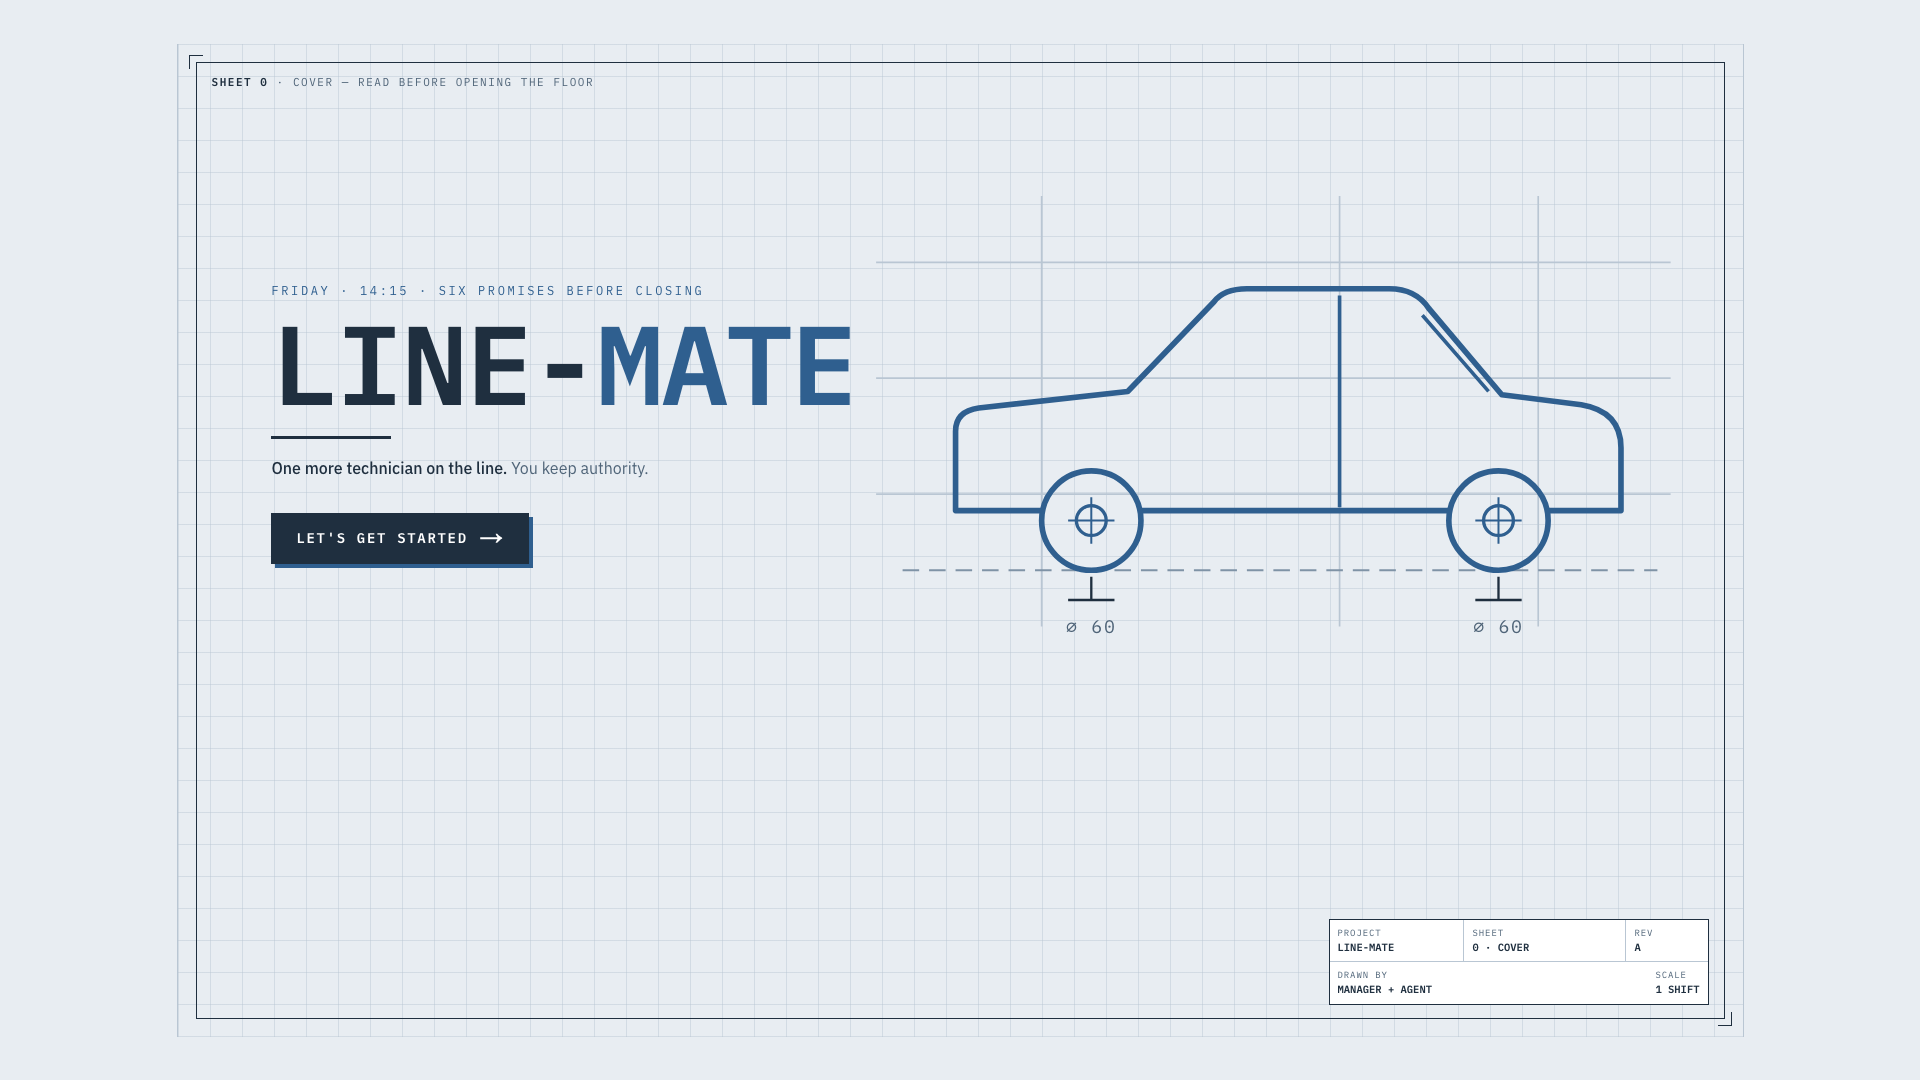
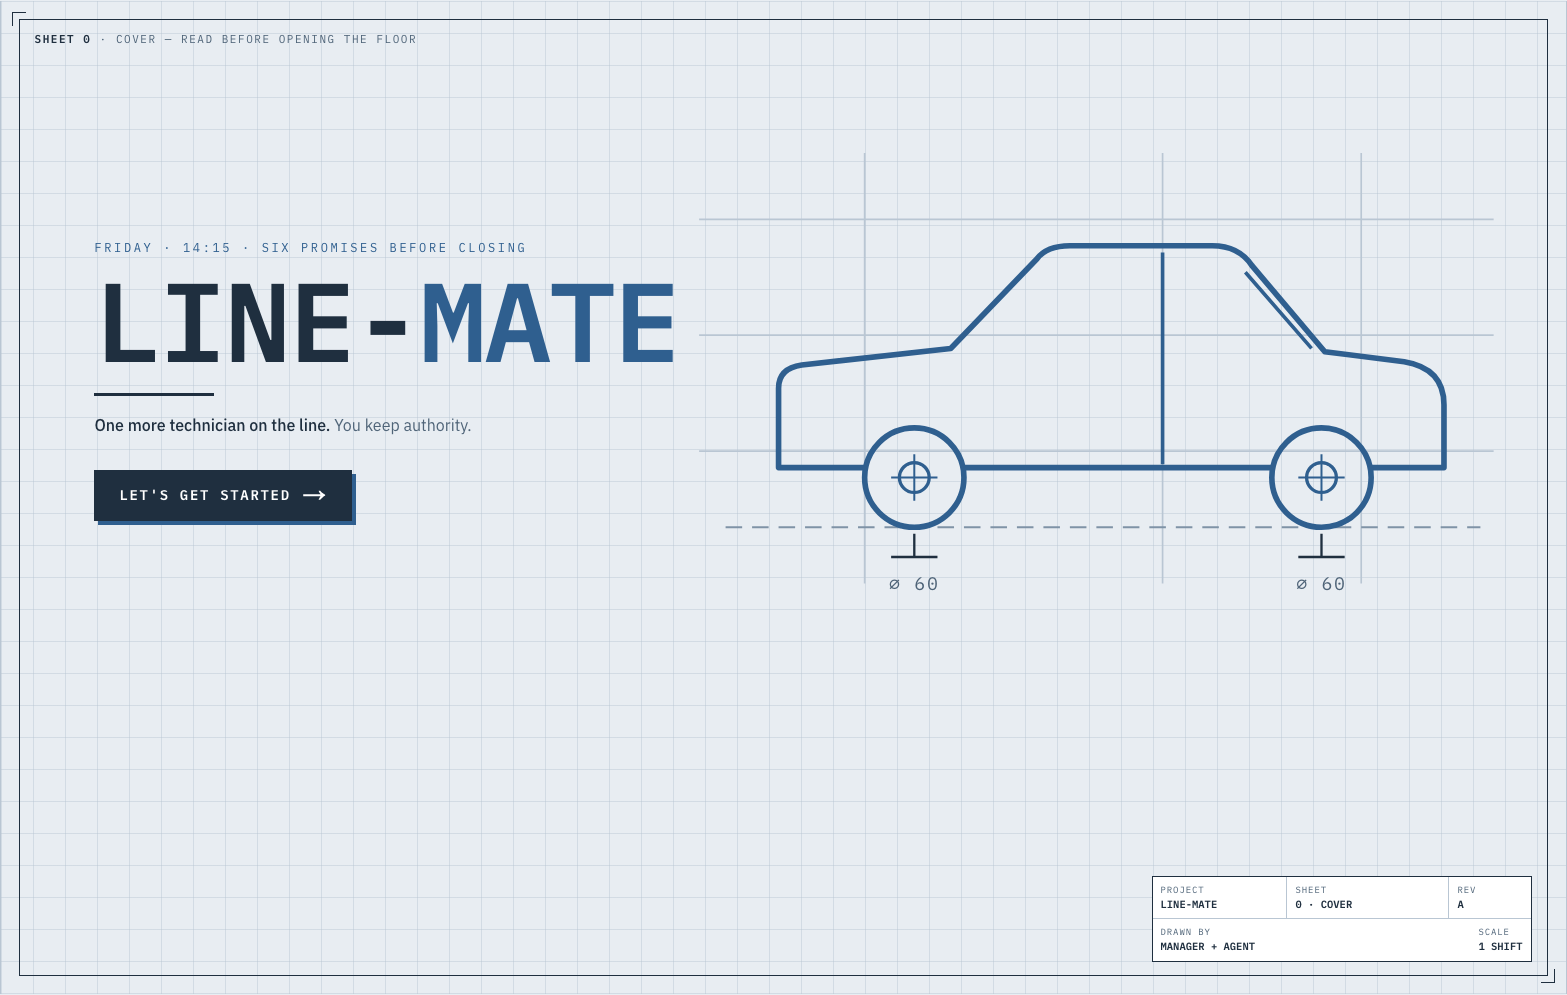
docs: README as the submission briefing — cover, pitch, tools, format, structure
Claude-Session: https://claude.ai/code/session_01657n9Tg9nrGUL1uyyJyH57

diff --git a/README.md b/README.md
@@ -1,63 +1,41 @@
-# Line-Mate
+<p align="center">
+  <a href="https://line-mate.vercel.app"><img src="public/cover.png" alt="Line-Mate — SHEET 0, the cover of the drawing set" width="100%"></a>
+</p>
 
-[![Line-Mate — SHEET 0, the cover of the drawing set](public/cover.png)](https://line-mate.vercel.app)
+**Line-Mate is one more technician on the line: a digital twin of a repair shop in a browser tab, where an agent works the floor through WebMCP and the manager keeps authority.**
 
-**One more technician on the line.** Line-Mate is a WebMCP-native shop floor where a human
-manager and a browser agent run the same operation, live — the agent explores real recovery
-plans, the manager keeps authority. Built for the 2026 WebMCP Challenge.
+🚗 **Web app:** https://line-mate.vercel.app
+🎬 **Demo video:** https://www.youtube.com/watch?v=SHw8O6rTDx8
 
-> 🚗 **Live app:** https://line-mate.vercel.app
-> 🎬 **Demo video (2½ min):** https://www.youtube.com/watch?v=SHw8O6rTDx8
-> 📦 **Source:** https://github.com/MarioAderman/line-mate · MIT
+## What Line-Mate is
 
-## What this is
+Line-Mate is a live model of a mid-market auto repair shop — three bays, a diagnostics station, three technicians, twelve cars and six promises by COB. By simulating the shop's floor, it helps the manager make a decision upon real-data considering multiple scenarios and understanding the trade-off between one and another.
 
-A mid-market auto repair shop, Friday 14:15, six customer promises before closing. A water-pump
-delay blocks Bay 3 and puts two promises at risk. The manager and an external agent — ChatGPT /
-Codex through the experimental [WebMCP](https://github.com/webmachinelearning/webmcp) browser API —
-recover the schedule **together, on the same live world**:
+What makes it WebMCP-native rather than "AI added to a simulator": there is one world and one command boundary. A click, a drag and an agent tool call all run the same command, stamped with its actor (`human`, `agent`, `simulation`), so every change on the board is attributed, the baseline is protected behind scenario branches, and the agent's context arrives through the tools themselves — no system prompt, no scraped DOM, no second backend.
 
-1. **Calm** — the shift board shows 6/6 promises on plan.
-2. **Escalation** — the part delay lands: Bay 3 blocked, 4/6, two cars in red.
-3. **Exploration** — the agent searches 141 alternative schedules across thousands of seeded
-   simulation runs; the screen animates the search as it happens.
-4. **Proposal** — the winning plan appears as draggable cards. The manager can retarget any car;
-   the agent can move the same dropdowns through tools. Every change carries its author.
-5. **Resolved** — apply & notify: 6/6 recovered, shift note logged with its channels.
+## WebMCP tools
 
-This is not "AI added to a simulator". The thesis is **shared operation**: one world, one command
-boundary, visible attribution (`human` / `agent` / `simulation`), a protected baseline, and
-scenario branches so the agent can experiment without touching the plan of record.
-
-## Why it's honest
-
-- **Deterministic engine.** Pure TypeScript discrete-event simulation in the browser. Same seed,
-  same numbers — every run, every machine.
-- **Measured confidence.** The exploration scores every candidate across seeded replications and
-  reports how often a plan holds. No hardcoded percentages anywhere.
-- **Nothing is applied silently.** The proposal is a draft on screen until the manager applies it.
-  Notifications are recorded in the shop log; the page performs no external delivery.
-
-## WebMCP surface
-
-The page registers **13 tools** via `document.modelContext` (Imperative API, feature-detected):
-
-| Kind | Tools |
+| Tool | What it is for |
 |---|---|
-| Read | `inspect_system` (includes the agent briefing and the on-screen draft), `inspect_resource`, `inspect_work_item`, `get_simulation_results`, `compare_scenarios` |
-| Mutation | `create_scenario`, `update_resource`, `update_work_item`, `route_work_item`, `apply_plan`, `post_shift_note` |
-| Action | `run_simulation`, `explore_schedules` |
+| `inspect_system` | The whole picture: shift clock, constraints, bays and technicians, jobs with their promises, latest KPIs, recent changes. Carries the agent's briefing and, during a proposal, the on-screen draft with per-change authorship. Use it first. |
+| `inspect_resource` | One bay or station: status and blocking reason, routed jobs, utilization, queue, who can work there. |
+| `inspect_work_item` | One vehicle's job: promise, priority, steps and the skills they need, current route, feasibility versus the promise. |
+| `get_simulation_results` | Structured results of a scenario's last run: promises met, completions, revenue and cost, utilization, late and unfinished jobs, bottleneck. |
+| `compare_scenarios` | Aligned KPIs for 2–4 scenarios with deltas against the first and a one-line verdict. |
+| `create_scenario` | Clone a scenario into a named experiment and make it active — the move that keeps the baseline intact. |
+| `update_resource` | Validated partial update of a bay or station (status, blocking, capacity, availability, cost). |
+| `update_work_item` | Change a job's priority. Promises, steps and revenue are the customer's facts and cannot be edited. |
+| `route_work_item` | Send a job to a bay or station at a queue position, or release its pin. While a proposal is on screen it edits the visible draft instead — attributed to the agent, nothing applied until the manager says so. |
+| `apply_plan` | Apply a whole plan — the one `explore_schedules` returned or the manager's edited version — as one attributed change. |
+| `post_shift_note` | Record the shift note in the shop log with its channels (slack, email, sms). No external delivery, no network request. |
+| `run_simulation` | Run the deterministic shift simulation for a scenario and persist the result. Same input, same numbers. |
+| `explore_schedules` | Search a bounded set of alternative schedules and score each across seeded replications — returns the best plan and up to eight runners-up with measured keep-rates. The screen animates the real search. |
 
-Human-only demo controls (`inject_event`, `activate_scenario`, `reset_demo`) are **not** exposed
-to agents. Tool responses are structured, validated with zod, and bounded. During the proposal
-beat, an agent `route_work_item` on the draft's scenario edits the visible draft — dropdown moves,
-`agent change` badge — and the world stays untouched until the manager applies.
+Three commands are deliberately **not** exposed to agents — `inject_event` (the part delay), `activate_scenario` (which scenario the screen shows) and `reset_demo` — they are the manager's controls (`Shift+E`, the Board/Floor switch, `Shift+0`).
 
-### Registration (the imperative API, exactly)
+### The format every tool obeys
 
-Every tool is registered through the WebMCP imperative API on `document.modelContext`, each with
-`name`, `description`, `inputSchema` (JSON Schema generated from the zod command schema), and an
-async `execute` — plus `title` and `annotations.readOnlyHint`:
+Each tool is a command from the app's single registry, registered through the WebMCP imperative API with `name`, `description`, `inputSchema` (JSON Schema generated from the command's zod schema) and an async `execute`, plus `title` and `annotations.readOnlyHint`:
 
 ```ts
 // src/webmcp/adapter.ts — feature-detected, torn down with an AbortController
@@ -67,76 +45,77 @@ await document.modelContext.registerTool(
 );
 ```
 
-The deprecated `navigator.modelContext` spelling is deliberately not used. When no WebMCP host is
-present the app degrades to a no-op and the header pill reads `Agent bridge unavailable`; with a
-host it reads **`Agent linked · 13 tools`**.
+A tool descriptor as the agent sees it:
 
-### Tested with real agents
-
-Four recorded live sessions drove these tools from **Codex realtime voice threads in the ChatGPT
-desktop app's in-app browser** (WebMCP on by default there). In the recorded transcripts the
-agent, unprompted about our internals: inspected the escalated shop, ran the seeded exploration
-(the winning plan kept **6/6 promises in 100% of measured runs** across independent seeds),
-branched scenarios to protect the baseline, applied the plan, verified it by simulation, edited
-the on-screen proposal draft through `route_work_item`, and posted the shift note — every change
-attributed `agent` in the visible history.
-
-## Try it
-
-```bash
-npm install
-npm run dev        # http://localhost:3000
+```json
+{
+  "name": "route_work_item",
+  "title": "Route work item",
+  "description": "Send a job to a specific bay or station, optionally at a queue position (1 = next) …",
+  "inputSchema": {
+    "type": "object",
+    "properties": {
+      "workItemId": { "type": "string" },
+      "resourceId": { "type": ["string", "null"] },
+      "position": { "type": ["integer", "null"], "minimum": 1, "maximum": 20 },
+      "scenarioId": { "type": "string" }
+    },
+    "required": ["workItemId", "resourceId"]
+  },
+  "annotations": { "readOnlyHint": false }
+}
 ```
 
-- **Views:** `Board | Floor` switch in the header (shift board / isometric shop).
-- **Demo story:** `Shift+E` part delay · `Shift+R` explore & propose · `Shift+A` apply & notify ·
-  `Shift+0` reset.
-- **With an agent:** open the page in a WebMCP-capable surface — ChatGPT desktop app's built-in
-  browser / Codex, or Chrome with `chrome://flags/#enable-webmcp-testing` (DevTools gains a WebMCP
-  panel to inspect and invoke the tools directly). The header pill shows `Agent linked · 13 tools`
-  when the bridge is up.
+And a real call from a recorded live session — the agent moving the black wagon inside the manager's proposal:
 
-### Judge test script (2 minutes, live URL)
+```jsonc
+// call
+route_work_item({ "scenarioId": "SCN-BASELINE", "workItemId": "veh-05", "resourceId": "bay-2" })
+// result
+{
+  "draftEdited": true,
+  "workItemId": "veh-05",
+  "route": { "resourceId": "bay-2", "position": 1 },
+  "summary": "Updated the proposed-plan draft on the manager's screen. Nothing is applied to the world until the manager presses Apply & notify team."
+}
+```
 
-1. Open **https://line-mate.vercel.app** in the ChatGPT desktop app's in-app browser, or in
-   Chrome 149+ with `chrome://flags/#enable-webmcp-testing` enabled (then restart Chrome).
-2. Dismiss the cover (**Let's get started** or `Enter`) and confirm the header pill says
-   **`Agent linked · 13 tools`**.
-3. Press **`Shift+E`** — the part delay lands: Bay 3 blocked, 4/6 promises at risk.
-4. Ask the agent: *"Inspect the shop and recover today's promises — explore schedules, branch a
-   scenario, apply the best plan, and verify it."* Watch the search animate on screen (~10 s),
-   the proposal land with attributed cards, and the recovery reach **6/6**.
-5. No agent handy? Chrome DevTools' **WebMCP panel** lists all 13 tools and can invoke them
-   directly — `inspect_system` first. No login, no credentials, nothing to install.
+Every mutation returns a `changeId`, the actor and a before/after summary; responses are JSON-safe and bounded (the exploration's animation trace, for instance, is stripped unless the caller asks for it).
 
-## Architecture
+## Project structure
 
 ```text
-human UI ─┐
-          ├─> application commands ─> canonical Zustand store ─> simulation engine
-WebMCP ───┘                                      │
-                                                 └─> visible change history
+line-mate/
+├─ src/
+│  ├─ app/            Next.js App Router: layout (metadata, fonts), page, tab icon, cover image
+│  ├─ domain/         Canonical serializable types, zod schemas, fixtures, disruptions, demo beats
+│  ├─ simulation/     Deterministic discrete-event engine + seeded schedule exploration (no React)
+│  ├─ commands/       The one command boundary: registry, validation, actor attribution, agent briefing
+│  ├─ store/          The single live world (Zustand) + story/view state, shift clock, draft
+│  ├─ webmcp/         document.modelContext adapter: feature detection, tool descriptors, cleanup
+│  └─ components/
+│     ├─ frame/       Shell, cover (SHEET 0), header, strips, title block, inspector, clock ticker
+│     ├─ board/       Shift board: promise strip, station cards, lanes, drag & drop, progress
+│     ├─ floor/       Isometric shop: 2.5D SVG projection, lifts, lot, routes, drag to lift
+│     ├─ story/       Exploration panel, proposal card, resolved card, demo keyboard controls
+│     └─ vehicles/    Side-view vehicle glyphs by body kind
+├─ docs/              Architecture, simulation model, WebMCP tool contract, design system, demo scenario
+├─ public/            cover.png (also the social preview)
+└─ package.json       npm run dev · npm run verify (typecheck + lint + tests + build)
 ```
 
-- `src/domain` — canonical serializable types, fixtures, disruptions
-- `src/simulation` — deterministic engine + seeded schedule exploration (no React)
-- `src/commands` — the one command boundary; UI and agents call the same commands
-- `src/store` — the single live world state + story/view state
-- `src/webmcp` — registration lifecycle, schemas, serialization, feature detection
-- `src/components` — shift board, isometric floor, story panels (S1 "Blueprint" design language)
+Every `src/` subdirectory carries its own README.
 
-Stack: Next.js (App Router) · React · TypeScript · Tailwind · Zustand · Motion · zod. Fully
-client-side; the deployment target only serves static assets.
+## Try it in two minutes
 
-## Development
+1. Open **https://line-mate.vercel.app** in the ChatGPT desktop app's in-app browser, or in Chrome 149+ with `chrome://flags/#enable-webmcp-testing` enabled (restart Chrome).
+2. **Let's get started** (or `Enter`). The header pill reads **`Agent linked · 13 tools`**.
+3. `Shift+E` — the part delay lands: Bay 3 blocked, 4/6 at risk.
+4. Ask the agent: *"Take a look at the shop and tell me what's wrong."* Then: *"Now run the schedules and keep all six — no overtime, no extra techs."* Watch the search animate, the proposal land with attributed cards, and the recovery reach **6/6**. Drag a card or change its bay yourself, then ask what changed.
+5. No agent handy? Chrome DevTools' **WebMCP panel** lists the 13 tools and invokes them directly. Nothing to install, no login.
 
-```bash
-npm run verify     # typecheck + lint + tests + build — the quality gate
-npm test
-```
+Views: `Board | Floor` in the header. Demo keys: `Shift+E` delay · `Shift+R` explore & propose · `Shift+A` apply & notify · `Shift+0` reset.
 
-Each `src/` subdirectory carries its own README, and `docs/` holds the architecture,
-simulation-model, WebMCP tool contract, design-system, and demo-scenario references.
+## Dev stack
 
-Built for the 2026 WebMCP Challenge by Mario Aderman with Claude Code and Codex working as
-parallel agent sessions on the same repository.
+Next.js (App Router) · React · TypeScript · Tailwind · Zustand · Motion · zod · Vercel. Built by Mario Aderman for the 2026 WebMCP Challenge with Claude Code and Codex
